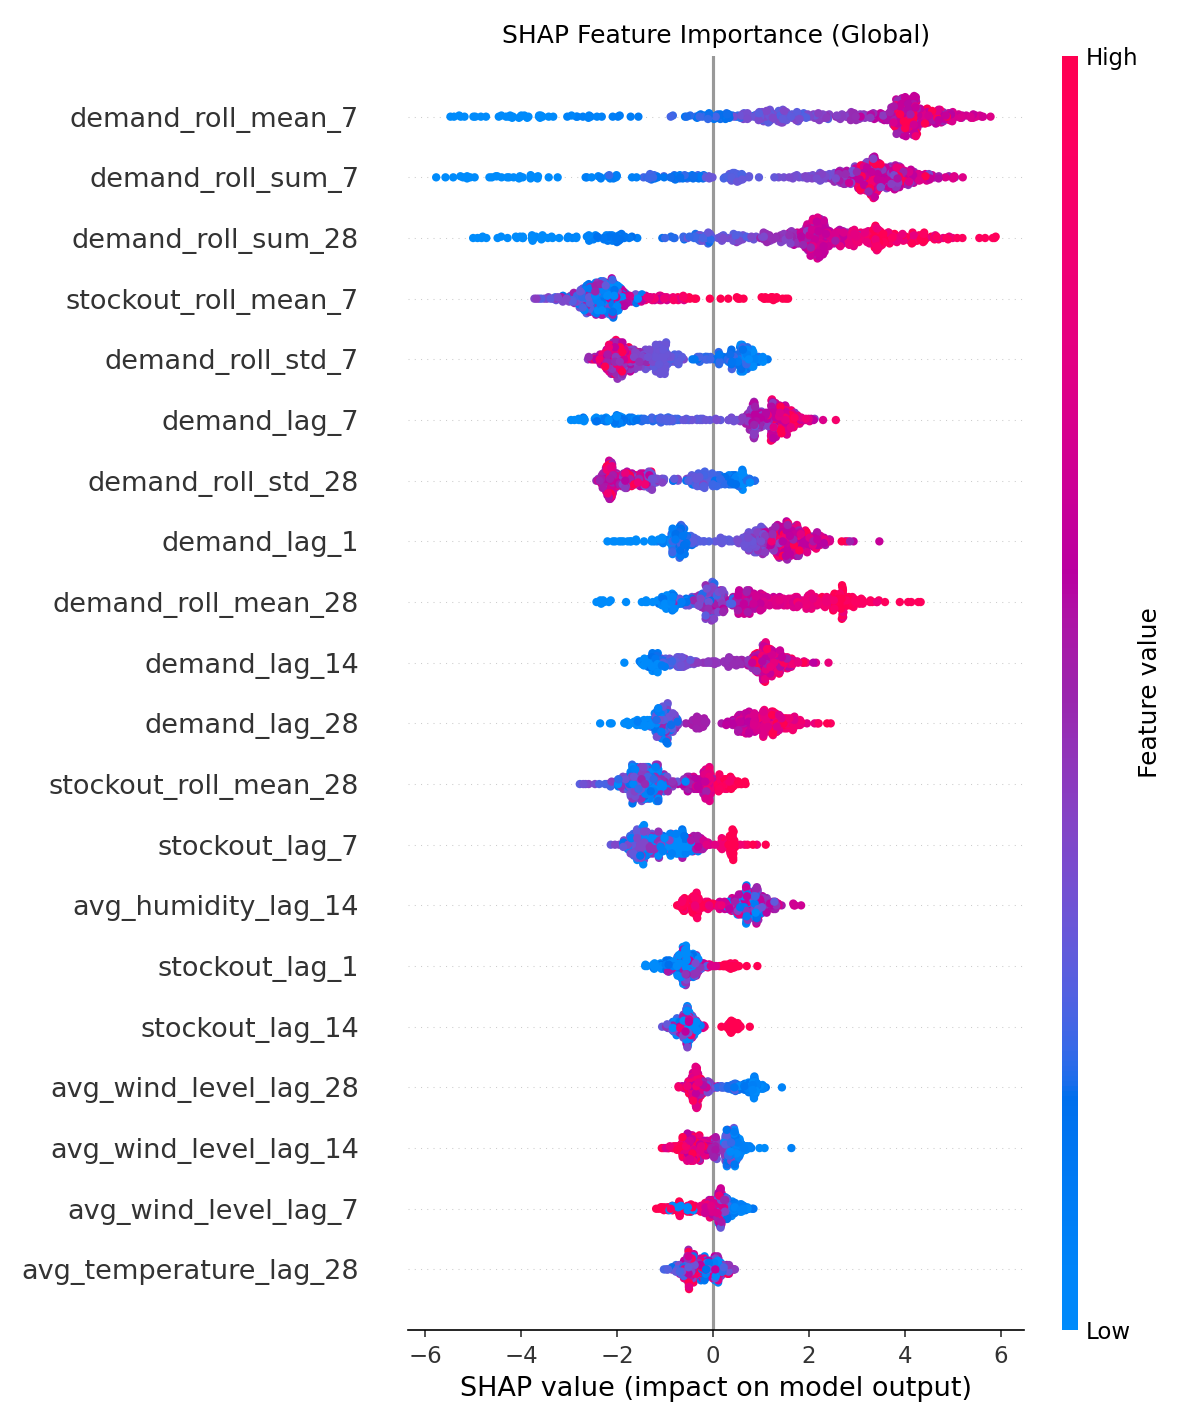
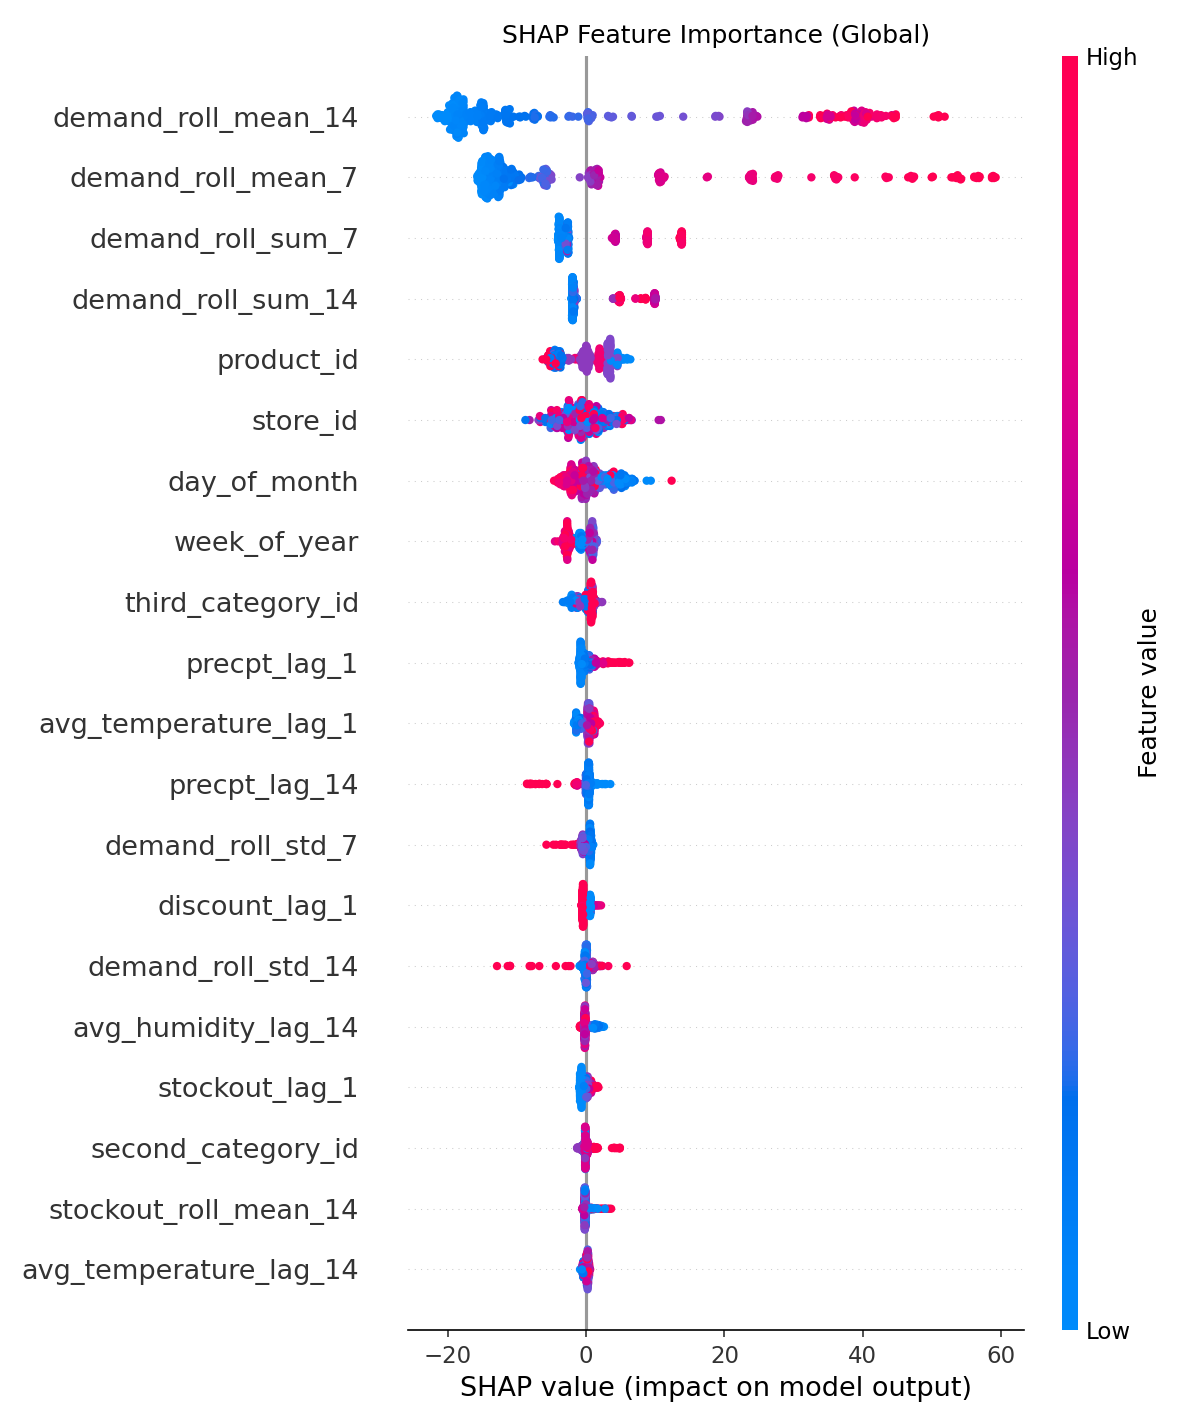
docs(memoria): declarar LightGBM como campeon y rehacer el capitulo de explicabilidad
El registro promociono LightGBM el 28 de agosto y las corridas del 31 lo confirman
por el criterio que la 4.1.8 declara: 147.646 u.m. frente a las 174.527 de CatBoost,
mejor Winkler (36,11 frente a 46,54) y mejor nivel de servicio (83,55% frente a
78,39%). La memoria seguia diciendo CatBoost en el texto, en el capitulo de
explicabilidad y en los cinco YAML.

El cierre de la seccion de sintonizacion no se reetiqueta, se acota. Su hallazgo
sigue siendo cierto y se conserva: CatBoost se degrada menos entre la ventana de
seleccion y la de validacion (29,93 frente a 34,03). Lo que no era cierto es que eso
ratificase al campeon, porque mide el sobreajuste de cada busqueda a su propia
ventana y no la calidad de la decision. El walk-forward invierte el orden, y esa
inversion refuerza el argumento central del trabajo en lugar de contradecirlo.

Las tres conclusiones del analisis SHAP eran falsas contra la figura real, y no solo
por el cambio de modelo: citaban demand_roll_sum_28 y stockout_roll_mean_28, que no
existen desde que las ventanas pasaron a [7, 14]. Medido sobre el campeon: las medias
moviles dominan (36,1 de contribucion media absoluta frente al 4,6 de la tercera
variable) pero los rezagos directos son irrelevantes (puestos 31 y 37 de 43), los
identificadores estaticos pesan mas que el calendario y el clima (product_id quinto,
store_id sexto), la rotura aporta de forma modesta (puestos 17 y 19) y la
[…]

diff --git a/memoria/chapters/06_resultados.tex b/memoria/chapters/06_resultados.tex
@@ -71,7 +71,11 @@ Los resultados aportan dos conclusiones metodológicas fundamentales sobre el co
     \item \textbf{Estabilidad estructural de CatBoost}: CatBoost muestra un comportamiento marcadamente más estable entre ventanas ($23{,}77$ en selección frente a $29{,}93$ en validación). En la evaluación \textit{out-of-sample}, \textbf{CatBoost resulta un $12{,}0\%$ más económico que LightGBM} ($29{,}93$ vs. $34{,}03$ u.m., Panel derecho de la Figura~\ref{fig:tuning_convergence_60trials}).
 \end{itemize}
 
-Esta estabilidad fuera de muestra confirma la superioridad de CatBoost en este dominio: sus árboles \textit{oblivious} actúan como un regularizador estructural eficaz y sus \textit{Ordered Target Statistics} gestionan los identificadores categóricos de alta cardinalidad sin introducir fuga de información. Por esta razón, el orquestador valida y persiste los hiperparámetros en \texttt{models/forecasting\_params.json}, ratificando a CatBoost como el \textit{backend} campeón para el despliegue operacional.
+Esta estabilidad fuera de muestra es un resultado atribuible al diseño de CatBoost: sus árboles \textit{oblivious} actúan como un regularizador estructural eficaz y sus \textit{Ordered Target Statistics} gestionan los identificadores categóricos de alta cardinalidad sin introducir fuga de información. El orquestador valida y persiste ambos conjuntos de hiperparámetros en \texttt{models/forecasting\_params.json}.
+
+Conviene, sin embargo, delimitar con precisión el alcance de esta conclusión, porque el criterio de selección del campeón no es este. Lo que la comparación anterior mide es la degradación de cada motor entre la ventana de selección de la búsqueda y su ventana de validación inmediata, sobre sorteos de la misma partición: informa de cuánto se sobreajusta cada búsqueda a su propio objetivo, no de qué modelo decide mejor. La elección del campeón corresponde al protocolo \textit{walk-forward} de la Sección~\ref{sec:backtesting}, evaluado sobre tres orígenes rodantes y bajo el coste logístico simulado, y ese protocolo \textbf{invierte el orden}: LightGBM alcanza $147.646$ u.m. frente a las $174.527$ de CatBoost, con mejor Winkler Score ($36{,}11$ frente a $46{,}54$) y un nivel de servicio superior ($83{,}55\,\%$ frente a $78{,}39\,\%$). El registro de promoción, que aplica ese criterio de forma automática, recoge en consecuencia a \textbf{LightGBM} como campeón vigente, y es el modelo que la Sección~\ref{sec:resultados_xai} explica y el que el modo de reposición diaria carga.
+
+La discrepancia no es un defecto sino la consecuencia esperable de medir dos cosas distintas, y refuerza el argumento central del trabajo: la robustez de un motor frente a su propio proceso de sintonización no predice su rendimiento económico bajo el protocolo de evaluación que decide.
 
 \paragraph{Frontera de Pareto: Compromiso Coste vs. Calibración de Incertidumbre.}
 La formulación biobjetivo implementada permite analizar empíricamente la estructura del espacio de búsqueda para ambos motores. La Figura~\ref{fig:pareto_front_60trials} ilustra las fronteras de Pareto resultantes en el espacio bi-criterio (\textit{Coste Logístico de Inventario} frente a \textit{Winkler Score P10--P90}):
@@ -334,21 +338,22 @@ A escala de catálogo completo (500 series), la ventaja de la corrección de cen
 
 El sistema fue evaluado también por su capacidad de justificar sus decisiones, requisito indispensable para la adopción en entornos logísticos industriales donde los responsables de compra deben validar las recomendaciones. Para abrir la ``caja negra'' de los modelos basados en árboles, se emplearon los valores de Shapley (SHAP). Esta técnica permite cuantificar exactamente cuánto aporta cada variable al valor final predicho y confirmar que el algoritmo está aprendiendo relaciones lógicas y no artefactos espurios de los datos.
 
-La Figura~\ref{fig:shap_summary} muestra el \textit{beeswarm plot} global del modelo CatBoost campeón, donde se representan las 20 características más influyentes.
+La Figura~\ref{fig:shap_summary} muestra el \textit{beeswarm plot} global del modelo campeón vigente (LightGBM, según el registro de promoción), donde se representan las 20 características más influyentes.
 
 \begin{figure}[htbp]
     \centering
     \includegraphics[width=0.82\textwidth]{figures/shap_summary.png}
-    \caption{SHAP \textit{beeswarm plot} del modelo CatBoost campeón (top-20 features por importancia global). El eje horizontal mide el impacto en la predicción; el color indica el valor de la feature (rojo = alto, azul = bajo). Las medias móviles de demanda dominan la importancia, seguidas de los lags directos y los indicadores de stockout.}
+    \caption{SHAP \textit{beeswarm plot} del modelo campeón LightGBM (top-20 features por importancia global). El eje horizontal mide el impacto en la predicción; el color indica el valor de la feature (rojo = alto, azul = bajo). Las medias móviles de demanda dominan la importancia, seguidas de los lags directos y los indicadores de stockout.}
     \label{fig:shap_summary}
 \end{figure}
 
 Del análisis de esta figura se extraen las siguientes conclusiones, que validan empíricamente las hipótesis de diseño del módulo de \textit{feature engineering}:
 
 \begin{itemize}
-    \item \textbf{Dominancia de la inercia reciente:} Las medias móviles de demanda a corto y medio plazo (\texttt{demand\_roll\_mean\_7}, \texttt{demand\_roll\_sum\_28}) dominan la importancia predictiva de forma absoluta, seguidas de los rezagos o \textit{lags} directos (\texttt{demand\_lag\_7}, \texttt{demand\_lag\_1}). Esto refleja el comportamiento natural de autocorrelación en series temporales de retail.
-    \item \textbf{Uso inteligente de la información de rotura:} Las variables que miden el historial de \textit{stockout}, como por ejemplo \texttt{stockout\_roll\_mean\_28}, aparecen de forma consistente en posiciones intermedias-altas de importancia. Esto evidencia que el modelo probabilístico ha aprendido a utilizar el historial de estanterías vacías como una señal \textit{proxy} estructural para ajustar al alza la demanda latente.
-    \item \textbf{Modulación climática:} Las variables meteorológicas como la humedad media (\texttt{avg\_humidity\_lag\_14}) y el nivel de viento (\texttt{avg\_wind\_level\_lag\_14}) se sitúan en las últimas posiciones. En lugar de forzar una dependencia general irreal, el algoritmo las utiliza sutilmente para ajustar los cuantiles extremos únicamente en categorías específicas.
+    \item \textbf{Dominancia absoluta del nivel reciente, no de los rezagos:} Las dos medias móviles de demanda concentran la importancia de forma abrumadora (\texttt{demand\_}\allowbreak\texttt{roll\_}\allowbreak\texttt{mean\_14} y \texttt{demand\_}\allowbreak\texttt{roll\_}\allowbreak\texttt{mean\_7} suman una contribución media absoluta de $36{,}1$ frente al $4{,}6$ de la tercera variable). El hallazgo relevante es el reverso: los rezagos directos son casi irrelevantes, con \texttt{demand\_lag\_1} en el puesto 31 y \texttt{demand\_lag\_7} en el 37 de 43. El modelo no lee el pasado punto a punto sino su nivel suavizado, lo que es coherente con un objetivo que agrega la demanda de siete días: promediar la ventana reduce el ruido diario que un rezago aislado arrastraría hasta la predicción.
+    \item \textbf{Los identificadores estáticos pesan más que el calendario y el clima:} \texttt{product\_id} y \texttt{store\_id} ocupan las posiciones quinta y sexta, por delante de toda la información de calendario y meteorología. Esto respalda directamente la decisión de entrenar un \emph{modelo global} sobre el catálogo completo en lugar de un modelo por serie (Sección~\ref{sec:eleccion_backends}): el modelo emplea la identidad de la referencia y de la tienda como el mecanismo por el que transfiere comportamiento entre series, que es justamente lo que un modelo por serie no puede hacer.
+    \item \textbf{La rotura informa, pero de forma discreta:} Las variables de historial de \textit{stockout} se sitúan en la zona media de la tabla (\texttt{stockout\_lag\_1} en el puesto 17, \texttt{stockout\_}\allowbreak\texttt{roll\_}\allowbreak\texttt{mean\_14} en el 19). Conviene no sobreinterpretarlo: su aportación es real pero modesta, y no debe confundirse con el mecanismo por el que el sistema corrige la censura, que no es una variable del modelo sino la reconstrucción previa del objetivo (Sección~\ref{sec:demanda_censurada}). Con la señal ya reconstruida aguas arriba, al modelo le queda poco que extraer del indicador de rotura.
+    \item \textbf{Modulación climática inmediata, no rezagada:} La meteorología no es despreciable, pero su peso se concentra en el rezago corto: \texttt{precpt\_lag\_1} y \texttt{avg\_}\allowbreak\texttt{temperature\_}\allowbreak\texttt{lag\_1} ocupan los puestos décimo y undécimo, mientras que sus versiones a catorce días caen a la mitad inferior. El algoritmo aprovecha la condición meteorológica reciente como modulador del nivel y descarta en la práctica la de dos semanas atrás, lo que sugiere que el rezago largo de estas variables aporta poco y podría podarse.
 \end{itemize}
 
 

diff --git a/scripts/plot_shap_champion.py b/scripts/plot_shap_champion.py
@@ -1,0 +1,96 @@
+"""Render the SHAP beeswarm of the CHAMPION model for the results chapter.
+
+Standalone, and deliberately not part of the experiment run. Computing SHAP for the
+LightGBM champion inside the pipeline process segfaults (exit 139) after the fold loop has
+trained both backends; the same call succeeds in isolation against the persisted model, on
+the same frame and the same tuned hyperparameters. A SIGSEGV cannot be caught by the
+`try/except` in `evaluation/xai.py`, so it takes the whole run down with it, artifacts
+included. Until that crash is understood, the figure comes from here.
+
+It reads the champion from the registry, loads its persisted `.pkl`, and rebuilds the
+supervised frame from the configured panel, so the figure is reproducible from committed
+inputs rather than being a hand-made PNG.
+
+Usage:
+    python scripts/plot_shap_champion.py --config configs/experiment/default.yaml
+"""
+
+from __future__ import annotations
+
+import argparse
+from pathlib import Path
+
+import matplotlib
+
+matplotlib.use("Agg")
+
+from retail_forecasting.config import load_config
+from retail_forecasting.data.censorship import LatentDemandImputer
+from retail_forecasting.data.dataset import load_prepared_panel
+from retail_forecasting.drift.regime import label_all_regimes
+from retail_forecasting.evaluation.xai import calculate_shap_values
+from retail_forecasting.features.engineering import build_supervised_frame
+from retail_forecasting.forecasting.pipeline import (
+    champion_registry_path,
+    load_champion_registry,
+    resolve_champion_reference,
+)
+from retail_forecasting.models.conformal import ConformalForecaster
+from retail_forecasting.utils.io import model_file_path
+from retail_forecasting.visualization.plots import render_shap_summary
+
+OUTPUT = Path("memoria/figures/shap_summary.png")
+
+
+def build_parser() -> argparse.ArgumentParser:
+    parser = argparse.ArgumentParser(description=__doc__)
+    parser.add_argument("--config", default="configs/experiment/default.yaml")
+    parser.add_argument("--sample-size", type=int, default=500)
+    parser.add_argument("--output", type=Path, default=OUTPUT)
+    return parser
+
+
+def main() -> None:
+    args = build_parser().parse_args()
+    settings = load_config(args.config)
+
+    champion = resolve_champion_reference(
+        settings, load_champion_registry(champion_registry_path(settings))
+    )
+    model_path = model_file_path(settings.models.models_dir, champion.backend_name)
+    if not model_path.exists():
+        raise SystemExit(f"No saved champion at {model_path}. Run a backtest or retrain first.")
+    model = ConformalForecaster.load(model_path)
+
+    panel = load_prepared_panel(
+        dataset_config=settings.dataset,
+        preprocessing_config=settings.preprocessing,
+        split="train",
+    )
+    strategy = settings.preprocessing.imputation_strategy
+    if strategy != "none":
+        panel = LatentDemandImputer(
+            strategy=strategy,
+            model_path=settings.models.models_dir / settings.models.imputation_params_filename,
+        ).impute(panel)
+
+    frame, metadata = build_supervised_frame(
+        panel=label_all_regimes(panel),
+        feature_config=settings.features,
+        horizon=settings.dataset.horizon,
+    )
+
+    shap_values = calculate_shap_values(
+        model=model,
+        X=frame[metadata.feature_columns],
+        sample_size=args.sample_size,
+    )
+    args.output.parent.mkdir(parents=True, exist_ok=True)
+    render_shap_summary(shap_values=shap_values, output_path=args.output)
+    print(f"✅ Wrote {args.output}")
+    print(f"   champion: {champion.model_name} ({champion.backend_name}), source {champion.source}")
+    print(f"   frame   : {len(frame)} rows, {len(metadata.feature_columns)} features")
+
+
+if __name__ == "__main__":
+    main()

diff --git a/CLAUDE.md b/CLAUDE.md
@@ -47,7 +47,7 @@ The v1 pipeline supports only `FreshRetailNet-50K` through `dataset.source = fre
 
 Stockout-censored demand can be reconstructed via `LatentDemandImputer` (`data/censorship.py`), compared against the raw observed-demand baseline by `run_fair_cost_backtest` -- the only comparison that ranks strategies, since invariant 42 rules out the reconstruction-MAE route and an experiment scores one arm per run against its own target. Every forecasting mode runs on the 500 highest-rotation series: model selection, champion evaluation, retraining and scoring. That is the scale the hyperparameters are tuned at, and invariant 41 measured what happens when the two diverge. The fair-cost backtest still samples 30 series, now drawn from those 500, to isolate the imputation signal from the rest of the pipeline under a common ground truth. The sample is a censoring MASK, not a subset: only those series are scored, while the supervised imputer's teacher keeps the whole 500-series panel it gets in deployment (invariant 44). It scores them on 20 censoring draws and reports the cost gap against the observed signal as a PAIRED difference with a 95% interval: a single draw ranked four strategies with nothing around the ranking, and the ranking does invert with the panel. The OPS plane is the exception at 100 series, because it streams its own re-carved split.
 
-CatBoost is the current champion model, selected by simulated logistic cost, not by MAE or Winkler Score alone — point-error and logistic-cost rankings can (and do) invert.
+LightGBM is the current champion model (`models/champion_registry.json`, promoted 28 Aug 2026), selected by simulated logistic cost, not by MAE or Winkler Score alone — point-error and logistic-cost rankings can (and do) invert. It replaced CatBoost, which still wins the tuning-time out-of-sample comparison; that measures a search's overfit to its own window, and the walk-forward inverts it. Resolve the champion from the registry, never from `business.champion_*`: those fields are the fallback for a store with no registry.
 
 The official `eval` split is wired as an external holdout and its temporal semantics are verified: the 7 days immediately after the train split. A non-train split inherits train's series universe rather than recomputing one — applying `min_history_days`/`top_n_series` to a 7-day split emptied it entirely (and, had it not, would have selected 50 series the model never trained on). A holdout that prepares to zero rows now raises instead of being skipped. Note the scope: horizon 7 over a 7-day split leaves ONE origin per series (50 rows, all 2024-06-26), so it corroborates the walk-forward and cannot rank models by itself. Every number currently in the thesis predates this and comes from the walk-forward. See invariant 14.
 
